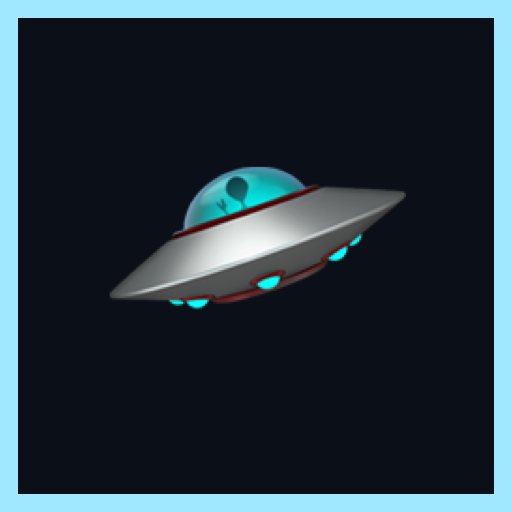
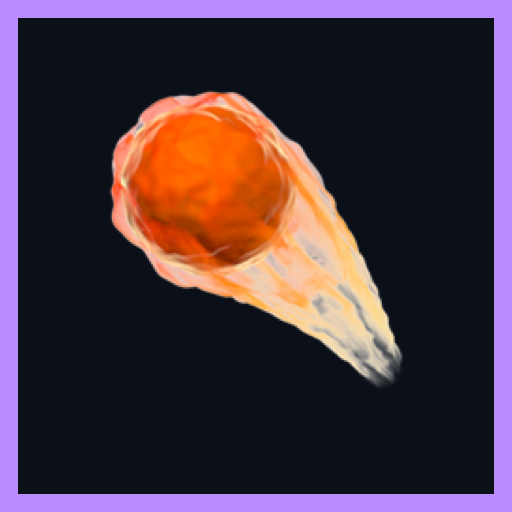
Asteroids: preselect mode + fix mobile picker; Asteroids+ distinct identity
- Both pickers preselect the default mode so Play works immediately.
- Asteroids: raise the overlay above the touch-joystick layer so the left-hand picker
  buttons are tappable on mobile (z-index fix). Mobile-control hint added.
- Asteroids+: distinct ☄ / purple identity (tile, favicon, install icons, theme) and
  it now carries the POPULAR badge (removed from Asteroids).

diff --git a/games/asteroids/index.html b/games/asteroids/index.html
@@ -29,13 +29,14 @@
   @media (max-height:560px) { #topHud { padding:2px 12px; gap:14px; } #hud { font-size:16px; } #hud .label { font-size:9px; } #weapon { font-size:10px; margin-top:1px; } #lives { font-size:16px; } }
   #timer .goal { display:none; }
   #flash { position:fixed; top:30%; left:0; right:0; text-align:center; font-size:30px; letter-spacing:6px; color:#ffc878; text-shadow:0 0 18px rgba(255,200,120,0.8); pointer-events:none; user-select:none; opacity:0; transition:opacity 0.3s ease; }
-  #overlay { position:fixed; inset:0; display:flex; flex-direction:column; align-items:center; justify-content:center; text-align:center; background:radial-gradient(circle at center, rgba(10,14,26,0.6), rgba(5,6,10,0.92)); gap:14px; user-select:none; }
+  #overlay { position:fixed; inset:0; z-index:9; display:flex; flex-direction:column; align-items:center; justify-content:center; text-align:center; background:radial-gradient(circle at center, rgba(10,14,26,0.6), rgba(5,6,10,0.92)); gap:14px; user-select:none; }
   #overlay h1 { margin:0; font-size:64px; letter-spacing:10px; color:#cfe8ff; text-shadow:0 0 22px rgba(120,200,255,0.7); }
   #overlay h1.win { color:#ffd166; text-shadow:0 0 22px rgba(255,209,102,0.8); }
   #overlay p { margin:4px; font-size:16px; opacity:0.85; line-height:1.7; }
   #overlay .hint { opacity:0.55; font-size:14px; }
   .blink { animation:blink 1.1s steps(2,start) infinite; }
   @keyframes blink { to { opacity:0.25; } }
+  .touchonly { display:none; } body.touch .touchonly { display:block; }
   @media (max-height: 540px) { #overlay { gap: 8px; overflow-y: auto; } #overlay h1 { font-size: 34px; letter-spacing: 5px; } #overlay p { font-size: 13px; line-height: 1.4; } }
   .btn { font-family:inherit; font-size:14px; letter-spacing:2px; padding:10px 22px; border-radius:10px; cursor:pointer; border:1px solid rgba(120,200,255,0.5); background:rgba(20,30,50,0.6); color:#cfe8ff; margin:4px; }
   .btn:hover { border-color:#9fe8ff; box-shadow:0 0 14px rgba(120,200,255,0.4); }
@@ -72,6 +73,7 @@
   <h1>ASTEROIDS</h1>
   <p id="ctrlLine"><strong>&larr;&rarr;</strong> / <strong>A&nbsp;D</strong> rotate &middot; <strong>&uarr;</strong> / <strong>W</strong> thrust &middot; <strong>SPACE</strong> shoot &middot; <strong>ESC</strong> pause</p>
   <p class="hint" id="modeHint">Fly around them or blast them apart. Score to upgrade your weapon.</p>
+  <p class="hint touchonly">📱 Phone: drag the left side to steer &amp; thrust &middot; tap FIRE to shoot</p>
   <p class="blink" id="startHint">press ENTER or SPACE to start</p>
 </div>
 
@@ -174,7 +176,7 @@
   const PICK_MODES = [['classic', 'CLASSIC'], ['enh', 'CLASSIC+']];
   function showModePicker(){
     state='menu'; SND.stopMusic();
-    let selV = null, selSR = new URLSearchParams(location.search).has('speedrun');
+    let selV = 'classic', selSR = new URLSearchParams(location.search).has('speedrun'); // default mode preselected (Play ready)
     function render(){
       overlay.innerHTML = '<h1>ASTEROIDS</h1>'
         + '<div class="psec">1 · RUN</div>'

diff --git a/games/asteroids-plus/index.html b/games/asteroids-plus/index.html
@@ -5,7 +5,7 @@
 <meta name="viewport" content="width=device-width, initial-scale=1.0, maximum-scale=1, user-scalable=no">
 <title>Asteroids+</title>
 <link rel="icon" href="favicon.svg" type="image/svg+xml">
-<meta name="theme-color" content="#9fe8ff">
+<meta name="theme-color" content="#b98cff">
 <link rel="manifest" href="manifest.json">
 <meta name="mobile-web-app-capable" content="yes">
 <meta name="apple-mobile-web-app-capable" content="yes">
@@ -55,6 +55,7 @@
   #overlay .hint { opacity:0.55; font-size:13px; }
   .blink { animation:blink 1.1s steps(2,start) infinite; }
   @keyframes blink { to { opacity:0.25; } }
+  .touchonly { display:none; } body.touch .touchonly { display:block; }
   @media (max-height: 540px) { #overlay { gap: 8px; overflow-y: auto; } #overlay h1 { font-size: 34px; letter-spacing: 5px; } #overlay p { font-size: 13px; line-height: 1.4; } }
   .cards { display:flex; gap:16px; flex-wrap:wrap; justify-content:center; max-width:840px; }
   /* compact grid for the wave shop, which lists many upgrades — fits without fullscreen */
@@ -116,6 +117,7 @@
   <p id="modeTitle">ROGUELITE — GEM LEVEL-UP</p>
   <p><strong>&larr;&rarr;</strong> / <strong>A&nbsp;D</strong> rotate &middot; <strong>&uarr;</strong> / <strong>W</strong> thrust &middot; <strong>SPACE</strong> shoot &middot; <strong>ESC</strong> pause</p>
   <p class="hint" id="modeHint">Destroy enemies, collect XP gems, level up and pick upgrades. Survive the waves.</p>
+  <p class="hint touchonly">📱 Phone: drag the left side to steer &amp; thrust &middot; tap FIRE to shoot</p>
   <p class="blink">press ENTER or SPACE to start</p>
 </div>
 
@@ -297,7 +299,7 @@
   ];
   function showModePicker(){
     state='menu'; SND.stopMusic();
-    let selProg = null, selSR = new URLSearchParams(location.search).has('speedrun');
+    let selProg = 'levelup', selSR = new URLSearchParams(location.search).has('speedrun'); // default mode preselected (Play ready)
     function render(){
       const cur = PICK_PROGS.find(p => p[0] === selProg);
       overlay.innerHTML = '<h1>ASTEROIDS+</h1>'
